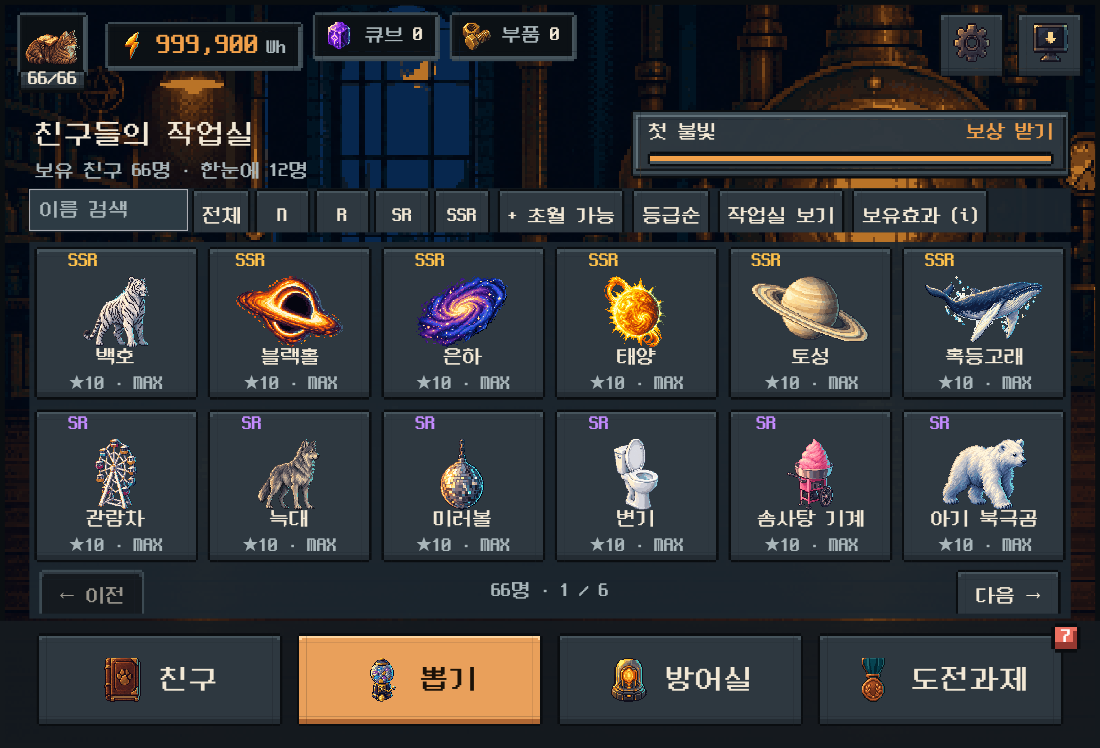
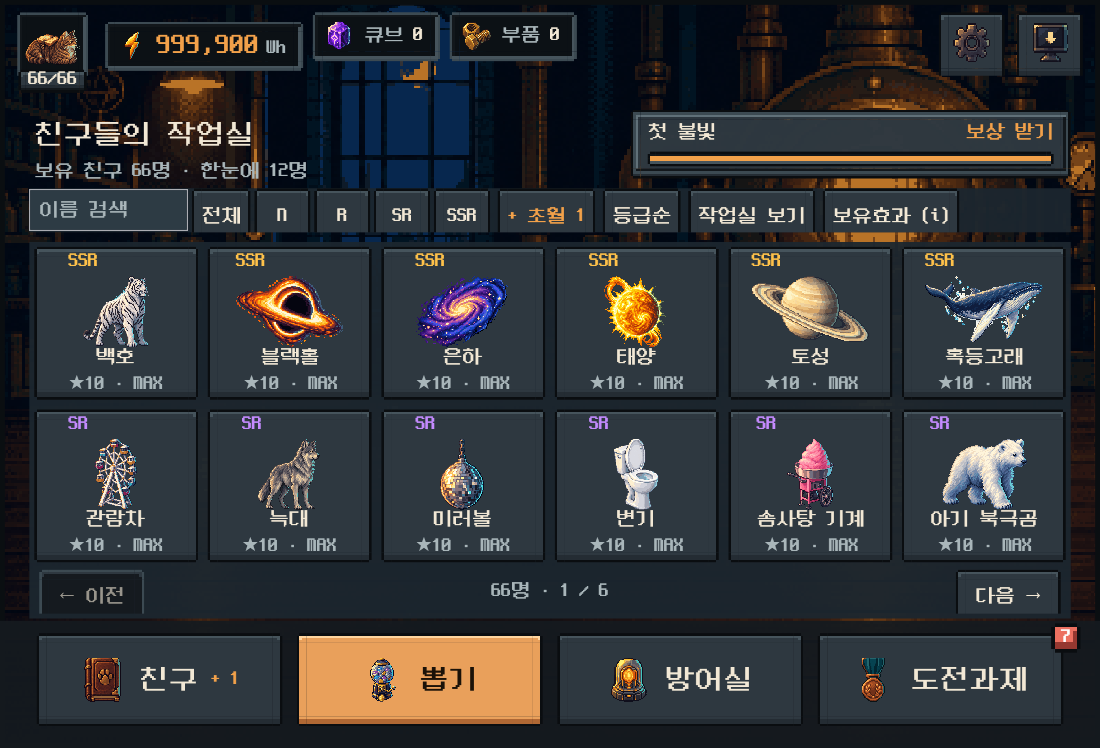
Publish 0.5.2 with new name and ascension notices

Changed region(s): [[0.4636, 0.246, 0.8964, 0.3075], [0.0618, 0.861, 0.2164, 0.9532]]

diff --git a/src.html b/src.html
@@ -3,9 +3,9 @@
 <head>
   <meta charset="utf-8">
   <meta name="viewport" content="width=device-width, initial-scale=1">
-  <title>냥력발전소 — 고양이와 함께하는 바탕화면</title>
-  <meta name="description" content="일상 속 입력이 작은 발전소가 되는 곳. 냥력발전소 Windows 개발판 다운로드와 최신 업데이트 소식을 만나보세요.">
-  <meta property="og:title" content="냥력발전소 — 고양이와 함께하는 바탕화면">
+  <title>몰컴은 고양이를 싣고 — 돌리다보면 퇴근까지</title>
+  <meta name="description" content="일상 속 입력이 작은 발전소가 되는 곳. 몰컴은 고양이를 싣고 Windows 개발판 다운로드와 최신 업데이트 소식을 만나보세요.">
+  <meta property="og:title" content="몰컴은 고양이를 싣고 — 돌리다보면 퇴근까지">
   <meta property="og:description" content="고양이는 빙글, 일상은 차곡차곡. Windows 개발판과 업데이트 소식을 만나보세요.">
   <meta property="og:type" content="website">
   <meta name="theme-color" content="#111d2e">
@@ -14,17 +14,17 @@
 </head>
 <body>
 <a class="skip" href="#main">본문으로 건너뛰기</a>
-<header class="header wrap"><a class="brand" href="/" aria-label="냥력발전소 홈"><img src="/assets/cat.png" width="44" height="44" alt="">냥력발전소</a><nav aria-label="주 메뉴"><a href="#about">게임 소개</a><a href="#updates">업데이트</a><a class="nav-download" href="#download">다운로드 <span aria-hidden="true">↓</span></a></nav></header>
+<header class="header wrap"><a class="brand" href="/" aria-label="몰컴은 고양이를 싣고 홈"><img src="/assets/cat.png" width="44" height="44" alt="">몰컴은 고양이를 싣고</a><nav aria-label="주 메뉴"><a href="#about">게임 소개</a><a href="#updates">업데이트</a><a class="nav-download" href="#download">다운로드 <span aria-hidden="true">↓</span></a></nav></header>
 <main id="main">
 <section class="hero wrap" aria-labelledby="hero-title">
-  <div class="hero-copy"><p class="intro"><span class="lamp"></span> 당신의 바탕화면에 작은 발전소 하나</p><h1 id="hero-title">고양이는 빙글,<br>일상은 차곡차곡.</h1><p class="lead">타이핑하고, 스크롤하는 평범한 시간.<br>고양이는 곁에서 돌고, 작은 에너지가 쌓여요.<br>모인 에너지로 새로운 친구를 만나보세요.</p><div class="hero-actions"><a class="button" href="#download">내 바탕화면에 데려오기 <span aria-hidden="true">↓</span></a><a class="text-link" href="#updates">v{{VERSION}} 업데이트 소식</a></div><p class="platform">Windows용 · {{LABEL}} v{{VERSION}}</p></div>
-  <div class="scene" role="img" aria-label="도트 작업실 배경에 고양이와 햄스터, 카피바라 친구를 배치한 소개 연출"><div class="scene-top"><span><i></i> 친구들의 작업실</span><span>냥력발전소</span></div><div class="room"><img class="pet pet-cat" src="/assets/cat.png" alt=""><img class="pet pet-hamster" src="/assets/hamster.png" alt=""><img class="pet pet-capybara" src="/assets/capybara.png" alt=""><span class="room-note">오늘도, 함께 발전 중.</span></div><div class="scene-bottom"><span>작은 친구들과 만드는 나의 작업실</span><span aria-hidden="true">✦</span></div></div>
+  <div class="hero-copy"><p class="intro"><span class="lamp"></span> 돌리다보면 퇴근까지</p><h1 id="hero-title">몰컴은<br>고양이를 싣고.</h1><p class="lead">타이핑하고, 스크롤하는 평범한 시간.<br>고양이는 곁에서 돌고, 작은 에너지가 쌓여요.<br>모인 에너지로 새로운 친구를 만나보세요.</p><div class="hero-actions"><a class="button" href="#download">내 바탕화면에 데려오기 <span aria-hidden="true">↓</span></a><a class="text-link" href="#updates">v{{VERSION}} 업데이트 소식</a></div><p class="platform">Windows용 · {{LABEL}} v{{VERSION}}</p></div>
+  <div class="scene" role="img" aria-label="도트 작업실 배경에 고양이와 햄스터, 카피바라 친구를 배치한 소개 연출"><div class="scene-top"><span><i></i> 친구들의 작업실</span><span>몰컴은 고양이를 싣고</span></div><div class="room"><img class="pet pet-cat" src="/assets/cat.png" alt=""><img class="pet pet-hamster" src="/assets/hamster.png" alt=""><img class="pet pet-capybara" src="/assets/capybara.png" alt=""><span class="room-note">오늘도, 함께 발전 중.</span></div><div class="scene-bottom"><span>작은 친구들과 만드는 나의 작업실</span><span aria-hidden="true">✦</span></div></div>
 </section>
 <div class="caption wrap">작업실 애셋을 활용한 소개 연출 · 바탕화면 친구는 실사 기반 포즈로 움직여요.</div>
 <section class="about wrap" id="about" aria-labelledby="about-title"><div class="section-heading"><h2 id="about-title">할 일을 하는 동안,<br>작은 세계가 자라요.</h2><p>처음에는 고양이 하나와 0 Wh.<br>서두르지 않고, 당신의 속도로 시작해요.</p></div><div class="features"><article><span class="feature-icon" aria-hidden="true">⌨</span><h3>일상이 에너지로</h3><p>키보드와 스크롤 활동으로 Wh를 모아요. 입력이 없을 때는 쉬고, 빠른 타이핑에는 잠깐의 피버가 찾아와요.</p></article><article><img src="/assets/hamster.png" alt="" width="64" height="64"><h3>친구가 하나둘</h3><p>뽑기 친구 60종과 지역 클리어로 구조하는 전용 친구 6종. 동물부터 엉뚱한 사물까지, 작업실이 북적여요.</p></article><article><img src="/assets/saturn.png" alt="" width="64" height="64"><h3>함께 지키는 방어실</h3><p>48,000 Wh로 방어실을 열어요. 친구 셋과 장비·작전을 준비하고, 6지역 × 4난이도의 생존과 보스 전투에 도전해요.</p></article></div>
-<div class="screens"><figure><img src="/assets/roster.png" width="1100" height="748" loading="lazy" alt="친구 12명을 한 번에 보고 이름·등급·초월 여부로 찾는 로비 화면"><figcaption>친구 12명을 한눈에</figcaption></figure><figure><img src="/assets/defense.png" loading="lazy" alt="방어실에서 친구들과 돔을 지키는 실제 전투 화면"><figcaption>친구들과 함께 지키는 방어실</figcaption></figure></div><p class="screen-note">로비와 방어실은 0.5.1 소스 기준 격리 검증 화면입니다. 친구와 진행 상태는 플레이에 따라 달라져요.</p></section>
+<div class="screens"><figure><img src="/assets/roster.png" width="1100" height="748" loading="lazy" alt="친구 12명을 한 번에 보고 이름·등급·초월 여부로 찾는 로비 화면"><figcaption>친구 12명을 한눈에</figcaption></figure><figure><img src="/assets/defense.png" loading="lazy" alt="방어실에서 친구들과 돔을 지키는 실제 전투 화면"><figcaption>친구들과 함께 지키는 방어실</figcaption></figure></div><p class="screen-note">로비는 0.5.2, 방어실은 0.5.1 소스 기준 격리 검증 화면입니다. 친구와 진행 상태는 플레이에 따라 달라져요.</p></section>
 <section class="updates wrap" id="updates" aria-labelledby="updates-title"><div class="section-heading"><h2 id="updates-title">발전소 소식</h2><p>조금씩 더 좋은 이웃이 되어가는 중.</p></div><div class="release-list">{{NOTES}}</div></section>
 <section class="download-section wrap" id="download" aria-labelledby="download-title"><div class="download-copy"><img src="/assets/cat.png" width="92" height="92" alt=""><h2 id="download-title">우리, 바탕화면에서 만나요.</h2><p>{{STATUS}}</p><div class="download-meta"><span>v{{VERSION}} {{LABEL}}</span><span>Windows · ZIP {{SIZE}}</span><span>{{DATE}}</span></div>{{BUTTON}}<p class="requirement">Windows / .NET Framework 4.x 필요 · macOS·모바일 미지원</p>{{HASH}}</div><div class="install"><h3>시작하는 방법</h3><ol><li><strong>ZIP 파일을 다운로드해요.</strong><span>업데이트 전에는 실행 중인 게임을 트레이에서 종료해 주세요.</span></li><li><strong>새 폴더에 전부 압축 해제해요.</strong><span>실행 파일과 assets 폴더를 함께 두세요.</span></li><li><strong>CatPower-v{{VERSION}}.exe를 실행해요.</strong><span>기존 저장은 같은 Windows 사용자 계정에서 이어집니다.</span></li></ol></div></section>
 <section class="faq wrap" aria-labelledby="faq-title"><h2 id="faq-title">궁금할 수 있는 것들</h2><details><summary>내가 입력하는 내용도 기록하나요?</summary><p>게임은 전역 입력의 활동 종류와 횟수만 사용해요. 키 내용, 클립보드, 앱 사용 기록은 저장하지 않아요.</p></details><details><summary>업데이트하면 진행 상황은 어떻게 되나요?</summary><p>저장은 게임 폴더와 별도로 %LOCALAPPDATA%/CatPower/companion-reboot/save.json에 보관돼요. 0.1.2 이후 호환 저장을 이어받으며, 개발판 업데이트 전에는 이 파일을 복사해 보관하는 것을 권장해요. 재설계 이전 1.x 저장은 승계하지 않아요.</p></details><details><summary>움직임을 멈출 수 있나요?</summary><p>설정의 움직임 줄이기를 켜면 회전과 피버 연출이 정적으로 표시돼요. 일시정지로 잠시 쉬게 할 수도 있어요.</p></details><details><summary>Windows에서 실행 경고가 나와요.</summary><p>개발판은 코드 서명이 없어 Windows에서 경고가 표시될 수 있어요. 다운로드 출처와 위의 SHA-256 해시를 확인하고, 출처를 확인할 수 없다면 실행하지 마세요.</p></details></section>
-</main><footer class="footer wrap"><a class="brand" href="/">냥력발전소</a><p>당신의 평범한 하루에, 작은 친구 하나.</p><a href="#updates">업데이트 기록</a></footer>
+</main><footer class="footer wrap"><a class="brand" href="/">몰컴은 고양이를 싣고</a><p>돌리다보면 퇴근까지</p><a href="#updates">업데이트 기록</a></footer>
 </body></html>

diff --git a/public/style.css b/public/style.css
@@ -4,3 +4,5 @@
 @media(max-width:560px){.wrap{padding-left:22px;padding-right:22px}.header{height:84px}.brand{font-size:19px;gap:5px}.brand img{width:32px;height:32px}.header nav{gap:15px;font-size:12px}.header nav>a:first-child{display:none}.nav-download{padding:7px 10px}.nav-download span{display:none}.hero{padding-top:32px}.intro{font-size:12px;margin-bottom:20px}.lead{font-size:15px;margin-top:23px}.hero-actions{gap:22px}.button{font-size:15px;padding:14px 20px}.scene-top>span:last-child{display:none}.caption{font-size:10px}.about,.updates{padding-top:65px}.section-heading{align-items:start;flex-direction:column;gap:18px}h2{font-size:29px}.features{grid-template-columns:1fr;gap:25px;margin-top:25px}.features article{display:grid;grid-template-columns:60px 1fr;column-gap:18px}.features img,.feature-icon{grid-row:span 2;width:56px;height:56px}.features h3{font-size:19px;margin-bottom:8px}.screens{grid-template-columns:1fr;margin-top:35px;gap:26px}.release{grid-template-columns:1fr;gap:15px;padding:26px 0}.release-meta{flex-direction:row;align-items:center;gap:16px}.version{font-size:22px}.release h3{font-size:18px}.download-section{margin:45px 14px 0;padding:30px 22px}.download-copy h2{font-size:27px}.download{width:100%}.download-meta{gap:6px 12px}.faq{padding-top:60px;padding-bottom:55px}.faq h2{font-size:25px}.faq summary{font-size:14px}.footer{padding-top:25px;padding-bottom:30px}}
 h1,h2,h3{word-break:keep-all;overflow-wrap:break-word}
 @media(prefers-reduced-motion:reduce){html{scroll-behavior:auto}.button:hover{transform:none}}
+.header{gap:20px}.brand{white-space:normal;word-break:keep-all;line-height:1.3}.brand img{flex-shrink:0}.header nav{flex-shrink:0}
+@media(max-width:700px){.header{height:auto;min-height:108px;flex-wrap:wrap;gap:16px;padding-top:20px;padding-bottom:20px}.header nav{width:100%;justify-content:flex-end}.footer{flex-wrap:wrap}.scene-top{gap:12px}}

diff --git a/README.md b/README.md
@@ -1,4 +1,4 @@
-# 냥력발전소 웹사이트
+# 몰컴은 고양이를 싣고 웹사이트
 
 버전 공지와 Windows 개발판 다운로드를 제공하는 한국어 정적 사이트입니다. 웹 코드와 공개용 애셋만 관리하며 게임 소스/개인 저장/QA 로그/게임 ZIP은 Git에 넣지 않습니다.
 
@@ -47,3 +47,7 @@
 ## 0.5.1 운영 메모
 
 6지역 도트 배경, 12명 로비/초월 인덱스, 조각 카드, N/R 보유 지원, 회전 사운드와 보유 Wh 표시 통일을 포함합니다. 누적 발전량은 도전과제에서 확인합니다. 저장 버전 7을 유지하며 진행 중 전투 수치는 새 입장 전까지 유지합니다. 로비와 전투 스크린샷도 0.5.1 격리 실행 화면입니다. 별도로 요청된 방어실의 월드 지도 및 단계별 화면 구조는 승인 대기 설계이므로 이 릴리스의 구현 기능으로 표시하지 않습니다.
+
+## 0.5.2 운영 메모
+
+이름/부제 변경, 동일한 정확한 Wh 표시, 초월 가능 인원과 필터 진입 보완. CatPower 실행 파일 및 저장 경로는 유지한다. 로비 캡처는 0.5.2로 교체했으며 방어실 캡처는 여전히 0.5.1 기준이다. 확정된 거점/도감/지도/48전투 재설계는 이번 배포 기능에 포함하지 않는다.
